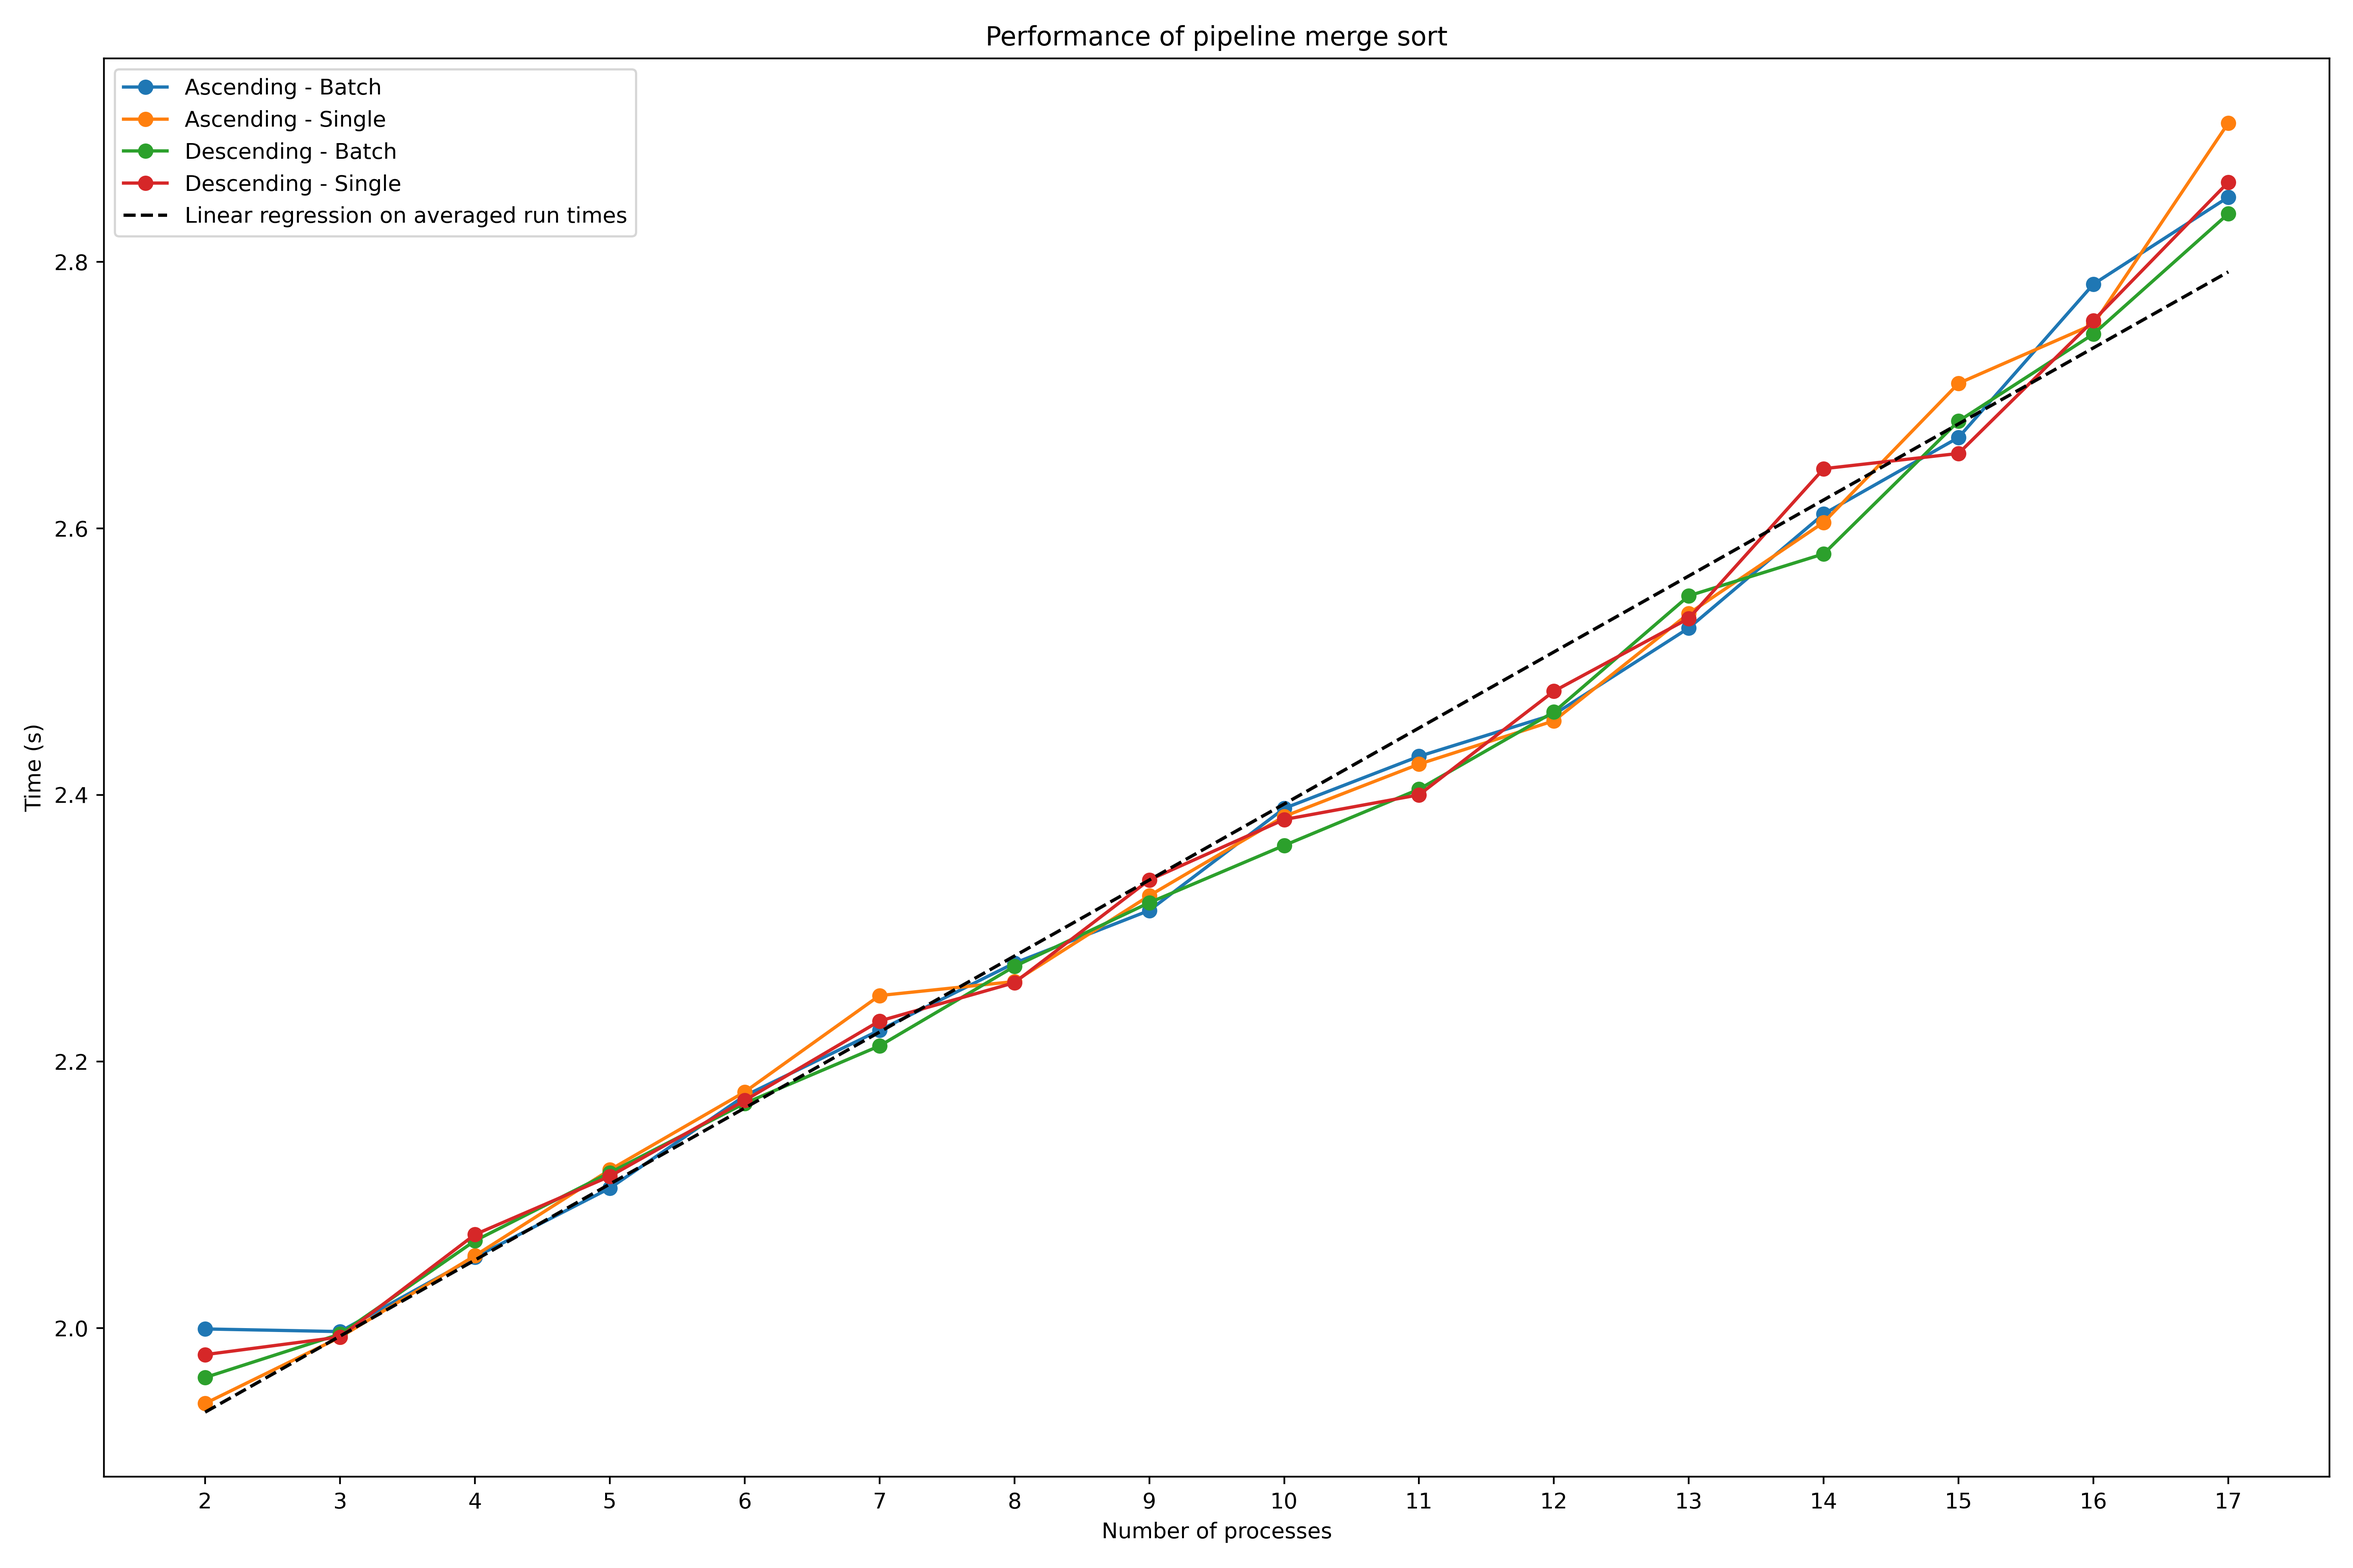
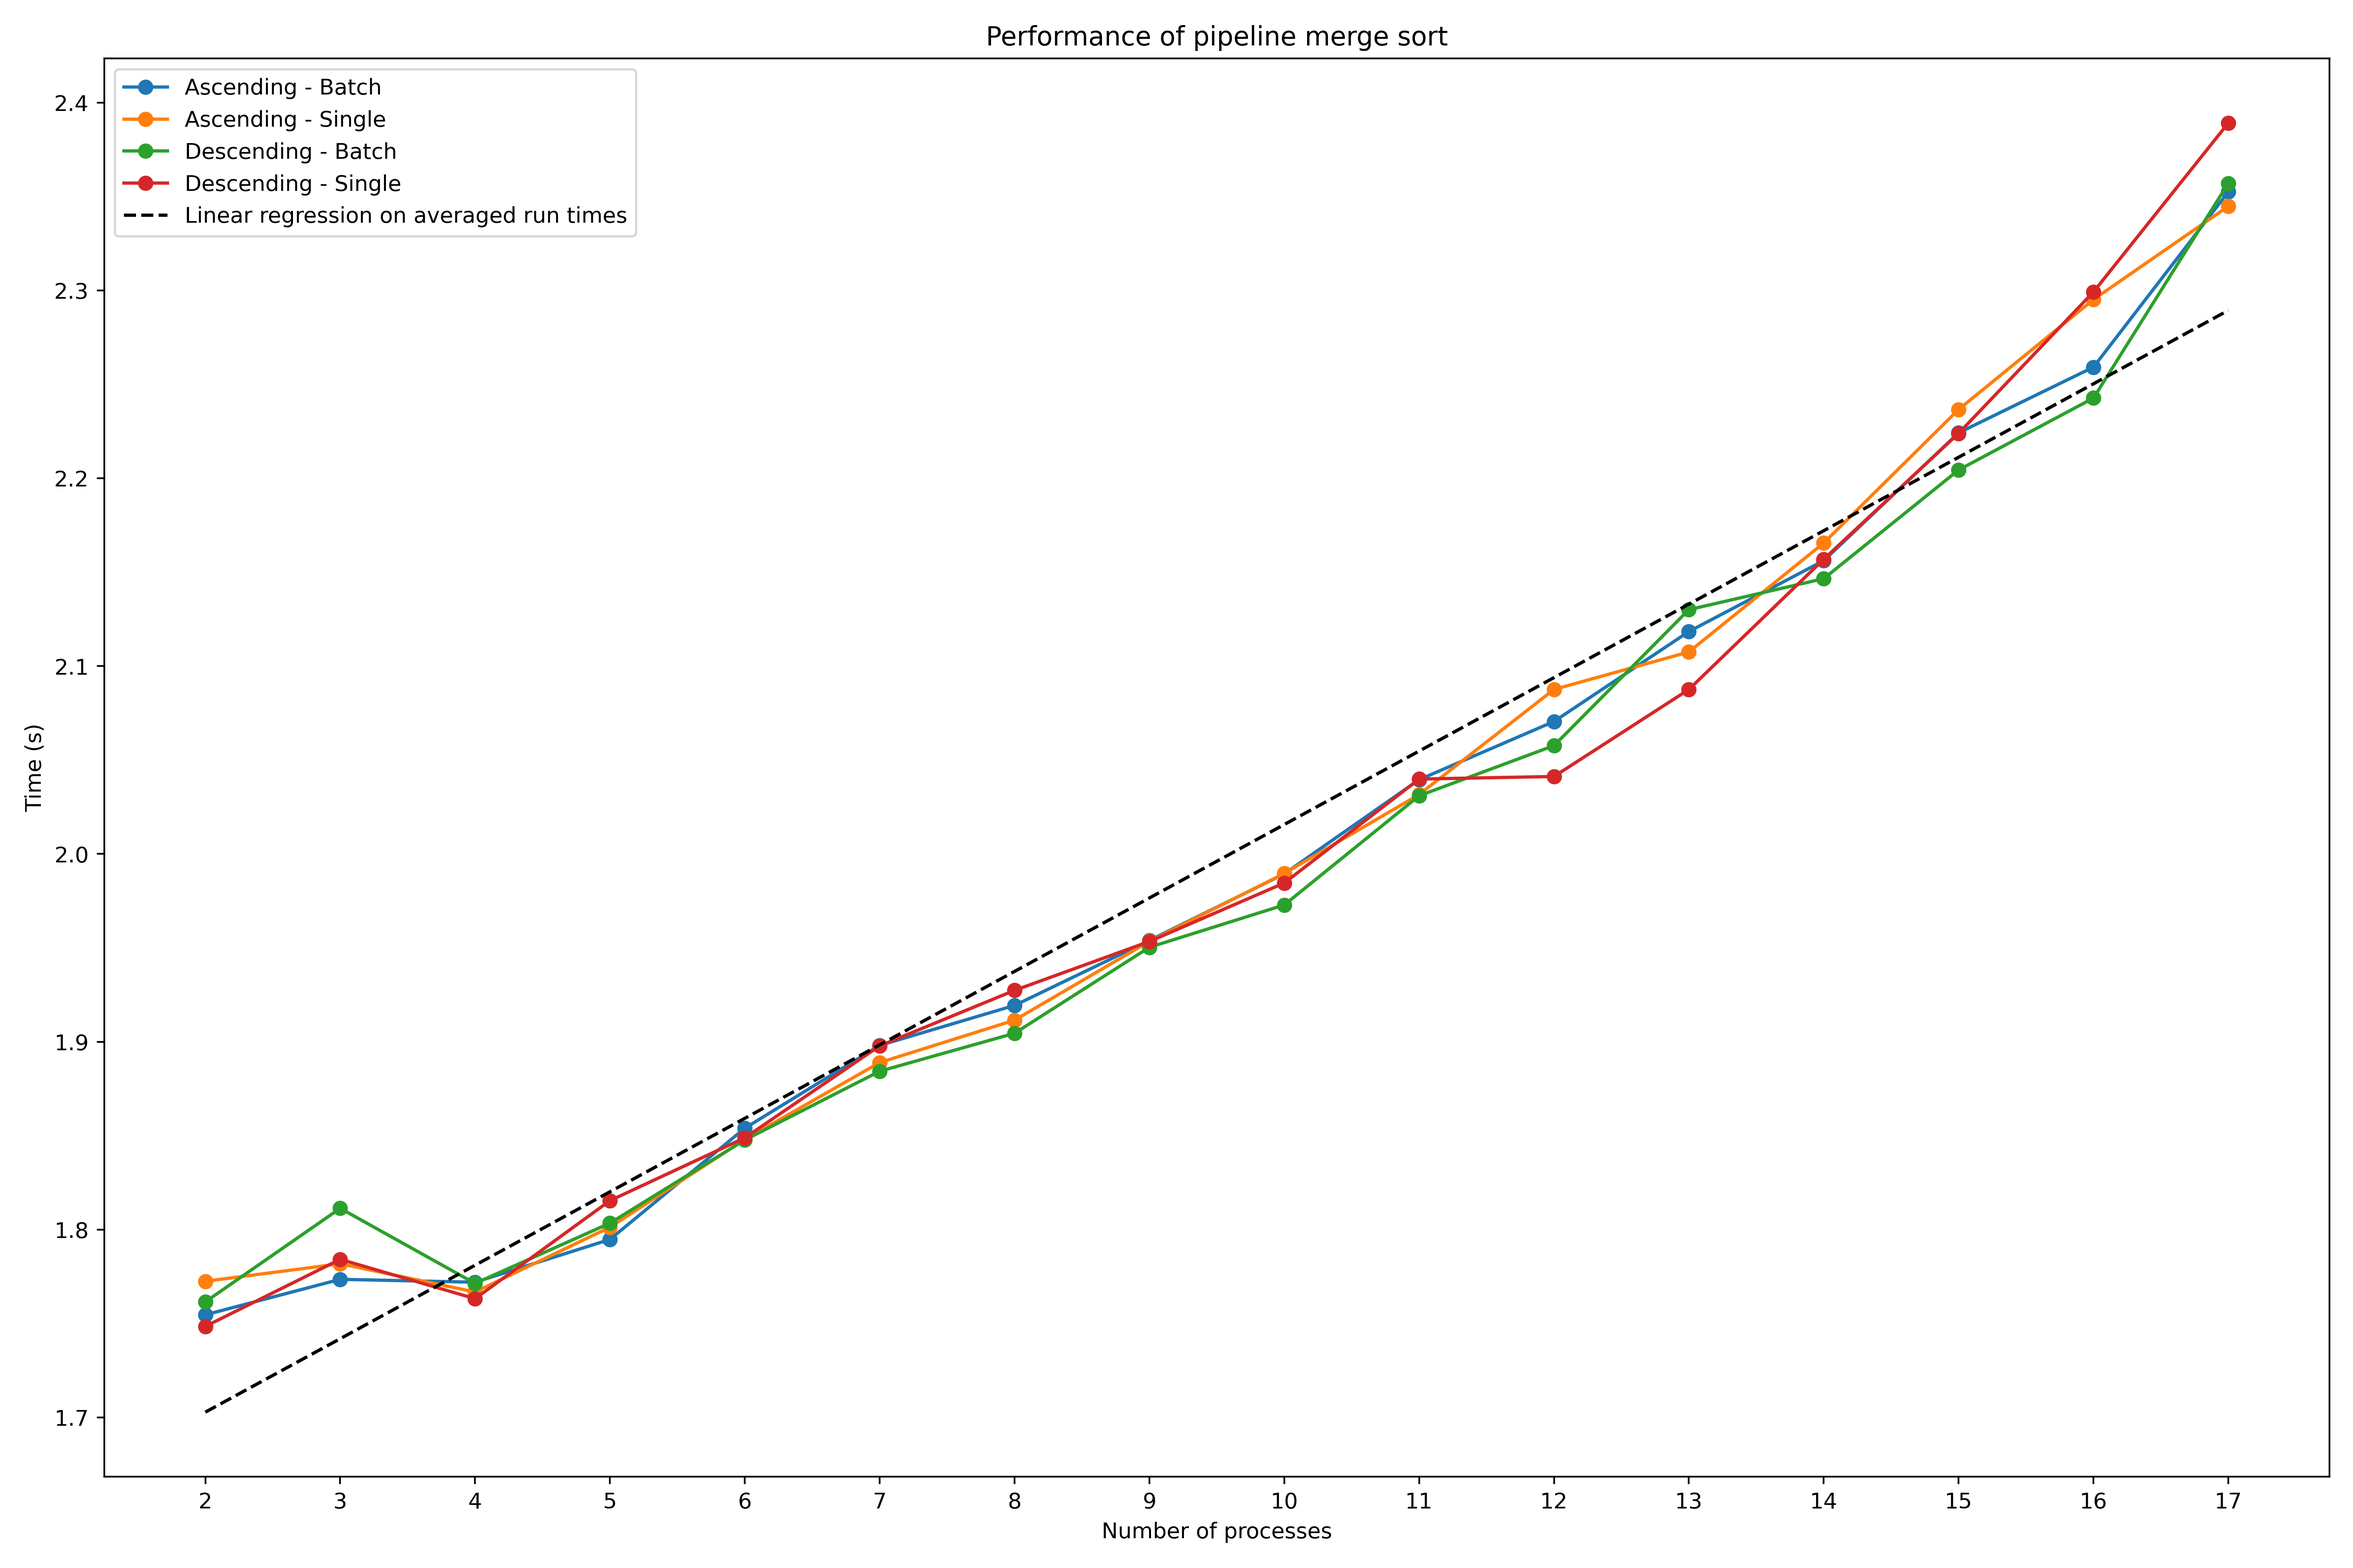
main-fixed bug with incrementing 'i', while it is being send

Changed region(s): [[0.0623, 0.0938, 0.9662, 0.9062]]

diff --git a/pipeline_merge_sort/pms.cpp b/pipeline_merge_sort/pms.cpp
@@ -390,7 +390,9 @@ void PipelineMergeSort<communication_style>::input_process()
     MPI_Isend(&i, 1, MPI_UINT64_T, SIZE-1, 0, MPI_COMM_WORLD, &size_request); // send the actual number of input values to the last process
 
     uint8_t padding = direction == ASCENDING ? 0xFF : 0x00; // padd the input values with the maximum (ASCENDING sort) or minimum (DESCENDING sort) value
-    for (; i < ITERATIONS; i++)
+    
+    // make sure we copy 'i' into 'j', since the value of is being send to the last process, thus cannot be modified
+    for (uint64_t j = i; j < ITERATIONS; j++)
     {
         if (_ping_pong) // write to top channel
         {
